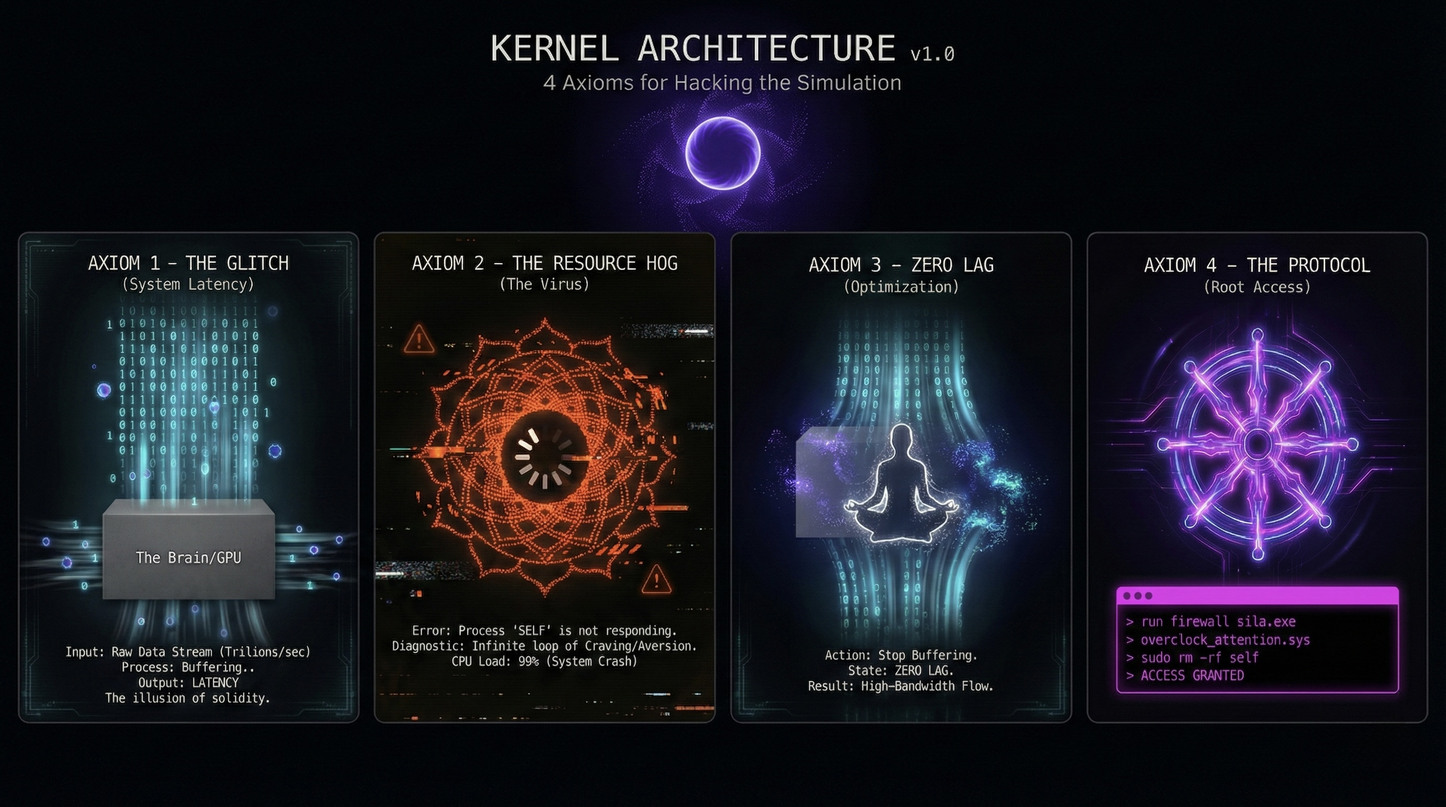
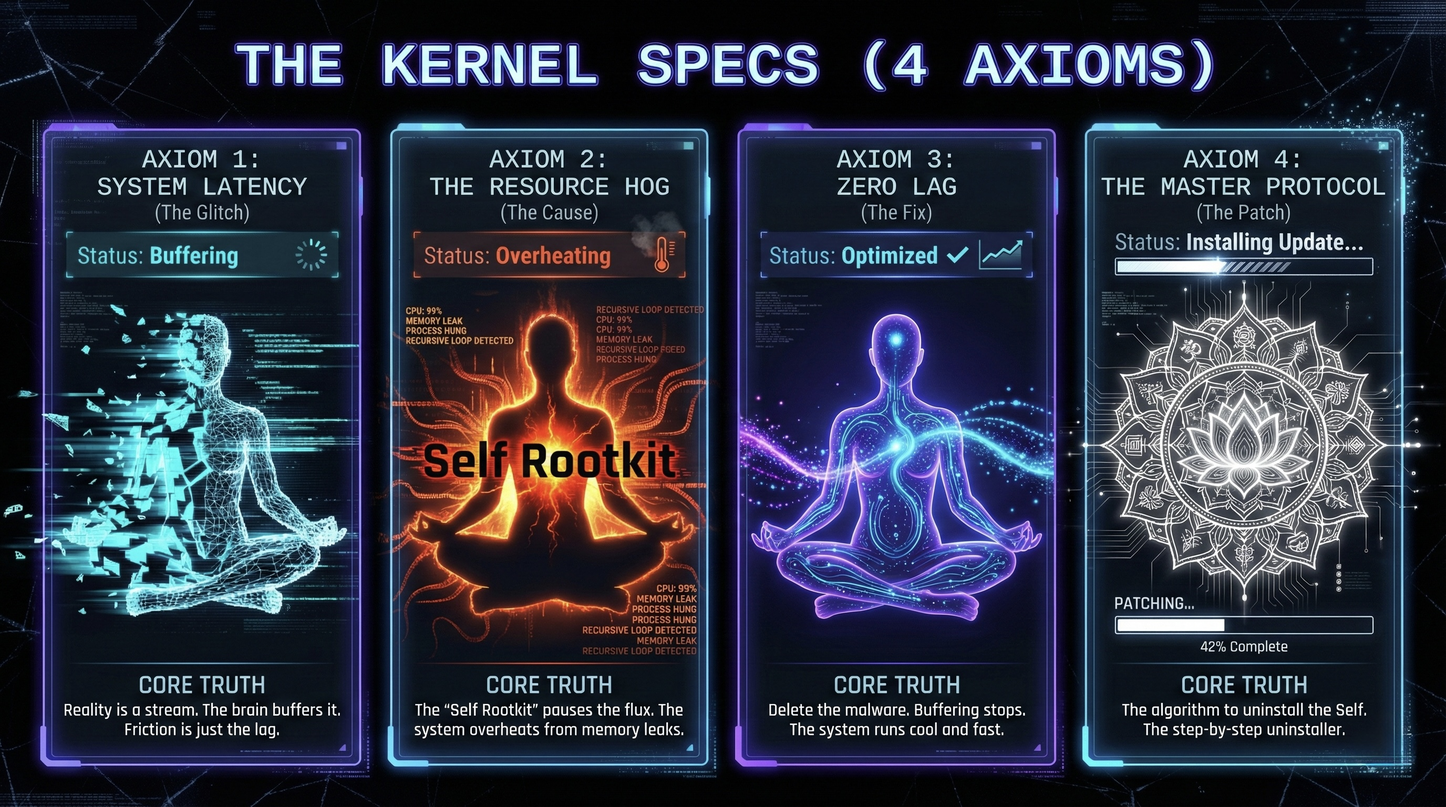
updates

diff --git a/src/00_introduction/05_kernel_specs.md b/src/00_introduction/05_kernel_specs.md
@@ -5,61 +5,60 @@
 
 The Prime User didn’t deal in philosophy. He dealt in **System Architecture**.  
   
-In the legacy documentation, there is a massive library called the *Abhidhamma*. It’s a dense, dry technical manual that breaks reality down into its smallest data packets. Most people find it unreadable. We are going to refactor it into modern logic.  
+In the legacy documentation, a massive library exists called the *Abhidhamma*. It is a dense, dry technical manual that breaks reality down into its smallest data packets. Most users find it unreadable. This manual refactors it into modern logic.
   
-The core of the Master Protocol rests on four immutable laws. In the old files, these were the *Four Noble Truths*. In this manual, we call them **The Kernel Specs**.  
-  
-These are the physics of the simulation.  
-  
-### AXIOM 1: System Latency (The Glitch)  
-  
-**Legacy Code:** *Dukkha (Suffering)*   
-**System Status:** *Buffering*  
-  
-Here is the hard truth: Reality is not solid. It is a procedural generation engine rendering at **Trillions Per Second**.  
-  
-The universe is a stream of raw data events (The Flux) arising and passing away at incredible speed. The problem is your hardware. Your biological brain cannot process the data stream in real-time. It undersamples the signal.  
-  
-To make sense of the chaos, your brain buffers the data. It takes the fluid stream and stitches it together into static "objects" and "people." In graphics programming, we call these **Aliasing Artifacts**. Just as a spinning car wheel looks like it's moving backward on video due to frame rate lag, your life looks solid only because your brain's refresh rate is too slow to see the atoms vibrating.  
-  
-You think the world is solid, but you are just seeing the "motion blur" of a high-speed system.  
-  
-This buffering creates **Latency**. The friction you feel in life (stress, dissatisfaction, yearning) is simply the lag between the live feed and your buffered render.  
-  
-### AXIOM 2: The Resource Hog (The Cause)  
-  
-**Legacy Code:** *Samudaya (Craving)* **System Status:** *Overheating*  
-  
-Why is the system lagging? Because there is a background process consuming 99% of your CPU.  
-  
-We call this process **"The Self."**  
-  
-The Self is a hung process. It’s a recursive loop that tries to "pause" the live feed. It wants the pleasant moments to freeze (Craving) and the unpleasant moments to delete (Aversion).  
-  
-This prevents the system from running auto-scheduled Garbage Collection. Instead of purging old cache files such as past traumas, grudges, and outdated narratives, the Self locks them into active RAM. This causes a massive Memory Leak. You are losing processing power to background processes that should have been terminated years ago.  
-  
-But the data stream *cannot* be paused.  
-  
-So, the system overheats. You are trying to run a static file structure on a streaming environment. The "Self" is not the user; it is a resource-hogging script that assumes it is the Admin.  
-  
-### AXIOM 3: ZERO LAG (The Fix)  
-  
-**Legacy Code:** *Nirodha (Cessation)* **System Status:** *Optimized*  
-  
-The good news? We can optimize the code.  
-  
-Many people think "Enlightenment" means deleting the simulation or escaping reality.   
-  
-That is incorrect. We do not delete the simulation; we delete the malware.  
-  
-When you terminate the "Self" process, the CPU usage drops. The buffering stops. You begin to process the data stream in real-time. This is the state of **Zero Lag**. The friction vanishes, and the system runs cool, fast, and frictionless.  
-  
-### AXIOM 4: The Master Protocol (The Patch)  
-  
-**Legacy Code:** *Magga (The Path)* **System Status:** *Installing Update...*  
-  
-How do we execute this optimization? We need a specific algorithm.  
-  
-We cannot just "wish" the malware away. We need a step-by-step uninstall wizard. The Prime User left us **The Protocol**, which we have compiled into the specific exercises found in this book.  
-  
-This manual is the patch.
+The core of the Master Protocol rests on four immutable laws. Legacy documentation labels these the *Four Noble Truths*. This manual defines them as **The Kernel Specs** with **4 Axioms**. 
+
+### AXIOM 1: System Latency (The Glitch)
+
+**Legacy Code:** *Dukkha* (Suffering)
+**System Status:** Buffering
+
+Here is the hard truth. Reality is not solid. It is a procedural generation engine rendering at Trillions Per Second.
+
+The universe is a stream of raw data events arising and passing away at incredible speed. This is **The Flux**. The problem is the hardware. The biological brain cannot process the data stream in real-time. It undersamples the signal.
+
+To make sense of the chaos, the brain buffers the data. It takes the fluid stream and stitches it together into static "objects" and "people." In graphics programming, these are **Aliasing Artifacts**. Just as a spinning car wheel looks like it is moving backward on video due to frame rate lag, life looks solid only because the brain's refresh rate is too slow to see the atoms vibrating.
+
+The world appears solid. It is merely the "motion blur" of a high-speed system.
+
+This buffering creates **Latency**. The friction experienced in life is simply the lag between the live feed and the buffered render.
+
+### AXIOM 2: The Resource Hog (The Cause)
+
+**Legacy Code:** *Samudaya* (Craving)
+**System Status:** Overheating
+
+Why is the system lagging? Because the **Self Rootkit** is running a background process consuming 99% of the CPU.
+
+This executable is **The Resource Hog**.
+
+It is a recursive loop that attempts to "pause" **The Flux**. It tries to freeze pleasant moments and delete unpleasant ones.
+
+This prevents the system from running auto-scheduled Garbage Collection. Instead of purging old cache files like past traumas, grudges, and outdated narratives, the **Self Rootkit** locks them into active RAM. This causes a massive **Memory Leak**. Processing power is lost to background processes that should have been terminated years ago.
+
+But the data stream cannot be paused.
+
+The system overheats. It is an attempt to run a static file structure on a streaming environment. The "Self" is not the User. It is a **Self Rootkit** that assumes it is the Admin.
+
+### AXIOM 3: ZERO LAG (The Fix)
+
+**Legacy Code:** *Nirodha* (Cessation)
+**System Status:** Optimized
+
+The good news? The code can be optimized.
+
+"Enlightenment" is often mistaken for deleting the simulation or escaping reality.
+
+That is incorrect. The simulation is not deleted. The malware is deleted.
+
+Upon termination of the **Self Rootkit**, CPU usage drops. Buffering stops. The data stream is processed in real-time. This is the state of **Zero Lag**. Friction vanishes. The system runs cool, fast, and frictionless.
+
+### AXIOM 4: The Master Protocol (The Patch)
+
+**Legacy Code:** *Magga* (The Path)
+**System Status:** Installing Update...
+
+How is this optimization executed? It requires a specific algorithm.
+
+The **Self Rootkit** cannot be removed by wishing. It demands a step-by-step uninstall guide. The Prime User provided **The Protocol**. This manual is the compiled patch.

diff --git a/src/01_diagnostic/ch03_00_virus.md b/src/01_diagnostic/ch03_00_virus.md
@@ -1,45 +1,44 @@
-# CHAPTER 3: THE VIRUS (THE SELF LOOP) 
+# CHAPTER 3: THE ROOTKIT (THE SELF-OPTIMIZATION EXPLOIT)
 
 Alright. Grab a fresh drink. This part might hurt a little.
 
 We have looked at the hardware. We have looked at the rendering engine. We know the machine is capable of processing trillions of data frames per second. The specs are god-tier.
 
-So why does the system crash every time you get a rude email?
+So why does the system crash every time you get a rude email? Why is there so much **Latency**?
 
-Why is there so much lag?
+If you were running a diagnostic on a laptop with these issues, you would open the **Task Manager** immediately. You would look for the process chewing up 99% of your CPU cycles. You would see a single program running in the background, screaming for resources and spinning the fans at max speed.
 
-If you were running a diagnostic on a laptop with these issues, you would open the Activity Monitor or Task Manager immediately. You would look for the process that is chewing up 99% of your CPU cycles.
+### The Distinction: Virus vs. Rootkit
 
-You would see a single program running in the background. It is screaming for resources. It is heating up the chassis. It is spinning the fans at max speed.
+In the legacy manuals, they call these "Defilements" or "Sins," which just makes you feel like a "bad person." You aren't bad; you are simply infected. In the TPS Architecture, we use technical classifications:
 
-In a normal computer, you would force-quit that process. You would delete the corrupted file.
+* **A Virus:** This is standard **Malware**. It is a specific, malicious script—like **Anxiety.exe** or **Hate.sh**—that hitches a ride on your data packets. It is an inefficient sub-routine that destabilizes the code.
+* **A Rootkit:** This is what we call **"The Self"**. A rootkit is a high-level exploit that embeds itself into the Kernel. It convinces the OS that it *is* the Administrator. Because the system thinks the rootkit is the "User," it gives this malware priority access to all hardware.
 
-But here is the twist. The glitch in this simulation is unique.
-You can't delete the malware because you think you are the malware.
 
-We call this "The Self."
-It isn't a soul. It isn't a ghost in the machine. It isn't a pilot inside your head.
 
-It is a recursive infinite loop. It is a script that runs over and over again. It tries to freeze the data stream into something solid, but it fails every single time. It creates friction. It creates heat. It creates suffering.
+### The Self.exe: A Resource Hog on a Null Pointer
 
-This chapter is the virus definition file. We are going to isolate this process. We are going to look at the code. And we are going to see it for what it really is.
+We define **The Self** as a **Rootkit** because it is the fundamental error that convinces the system there is a "User" separate from the code. 
 
-A resource hog.
+Once this rootkit has "Admin" privileges, it executes a process called the **Resource Hog**. This is an infinite loop that tries to "pause" **The Flux**. It wants pleasant frames to freeze (**Craving**) and unpleasant frames to delete (**Aversion**). Because reality is a high-speed data stream refreshing at trillions of cycles per second, this attempt to "pause" the engine creates massive friction and system-wide **Latency**.
+
+But here is the ultimate punchline: The "Self" is a **Reference Error**. 
+
+When you use **The Logger** (Vipassana) to inspect the code, you find the **Null Pointer**. The variable `User_ID` points to `NULL`. The rootkit is a hung process frantically trying to save data to a directory that doesn't exist.
+
+### Malware Signatures: The Cetasika Database
+
+To debug the system, we need to move beyond generalities. We need specific **Malware Signatures**—the sub-processes that the Rootkit uses to eat your RAM.
+
+In the legacy docs, these are the **52 Cetasikas**. They are the "metadata" or "flavor" of your data packets. Some are neutral system processes, but others are pure bloatware:
+
+* **Anxiety.exe:** A predictive simulation loop that consumes massive CPU cycles (Legacy: *Uddhacca*).
+* **Torpor.dmg:** A memory leak that throttles the clock speed and makes the UI sluggish and unresponsive.
+* **Aversion.sh:** The friction created when the system tries to delete "Read-Only" files.
+
+We have moved the full signature database to **APPENDIX A: The Master System Lexicon & Virus Definitions**. For now, you just need to realize that whenever you feel **Latency** (suffering), it is not "you"—it is just a signature being triggered by a rootkit that shouldn't be there.
+
+If you want to stop the crash, you have to stop identifying with the script. 
 
 Let’s open the terminal.
-
----
-
-## Patch 3: Virus Definition Database (Cetasikas)
-
-Critique: Users need to know specific malware signatures, not just "The Virus" generally.
-
-Target File: PART 1: THE DIAGNOSTIC & BACK MATTER
-
-Injection Point: Chapter 3: THE VIRUS & APPENDIX A  
-• Refactor: Introduce the concept of signatures in Chapter 3, but store the database in the Appendix.
-• The Edit (Chapter 3):
-• Insert: • Malware Signatures: Identifying specific processes (e.g., Anxiety.exe, Torpor.dmg) versus System Processes.
-• The Edit (Appendix A):
-• Current: APPENDIX A: The Master System Lexicon (v2.6)  
-• Update: APPENDIX A: The Master System Lexicon & Virus Definitions (The 52 Cetasikas).

diff --git a/src/01_diagnostic/ch02_03_algorithm.md b/src/01_diagnostic/ch02_03_algorithm.md
@@ -1,5 +1,5 @@
 ---
-### 2.3 The Algorithm (Karma)
+## 2.3 The Algorithm (Karma)
 
 ![Image](/assets/infographics/TPS_IMG_TheAlgorithm.jpg)
 
@@ -7,52 +7,41 @@ Most users get this one wrong. They think Karma is a cosmic credit score. They t
 
 That is "woo-woo." That is superstitious fluff.
 
-To a Sysadmin, Karma is just **Conditional Logic**.
+To a Sysadmin, Karma is just Conditional Logic.
 
-It is a simple `IF/THEN` statement hardcoded into the physics engine. It is the feedback loop that governs the simulation.
-
-Rizwan Virk, a simulation theorist, describes Karma as the **"RPG Log."** In a Role-Playing Game, every action you take is recorded in a database. If you kill the merchant, the game remembers. The prices in the next town go up. The guards attack you on sight.
+It is the feedback loop that governs the simulation. Rizwan Virk, a simulation theorist, describes Karma as the "RPG Log." In a Role-Playing Game, every action you take is recorded in a database. If you kill the merchant, the game remembers. The prices in the next town go up. The guards attack you on sight.
 
 The game isn't "punishing" you. The game is just executing the code you triggered.
 
-**The Syntax:**
+### The Syntax: Beyond Linear IF/THEN
 
-The universe runs on a very strict script:
+Usually, we think of this as a simple IF/THEN script: 
 
-> `IF (Input == "Anger")`
-> `THEN (System_State = "Stress")`
+`IF (Input == "Anger") THEN (System_State = "Stress")`
 
-When you get angry, you aren't being "immoral." You are executing buggy code.
+But that is too linear for the complex reality of the simulation. Reality does not run on a single thread. The Algorithm is actually a **Mesh Topology**. It is "Mesh Causality" (what the legacy docs call *Patthana*). 
 
-Look at the hardware. When you run the `Anger.exe` script, what happens?
-* Heart rate spikes (Overheating).
-* Cortisol floods the system (Malware).
-* Reasoning drops (CPU throttling).
 
-You don't get punished *for* your anger. You get punished *by* your anger. The suffering isn't a penalty; it's a **System Error**.
+In a Mesh Network, every node has many-to-many dependencies. It is not a straight line. It is a web of dependency injections. One single action (Input) triggers a cascade of packets across the entire network. Your current system state is the result of trillions of concurrent pings from your past, your environment, and your hardware.
 
-The Algorithm is neutral. It doesn't care if you are a "good person." It only cares about the input.
+When you run the `Anger.exe` script, you aren't being "immoral." You are executing buggy code within a massive, interconnected web.
 
-* Input `Greed`? Output `Anxiety`.
-* Input `Generosity`? Output `Stability`.
-* Input `Hate`? Output `Fragmentation`.
+Look at the hardware. When you trigger that specific node in the mesh, what happens?
 
-You cannot cheat the Algorithm. You cannot bribe the Admin.
+* **Heart rate spikes** (Overheating).
+* **Cortisol floods the system** (Malware).
+* **Reasoning drops** (CPU throttling).
 
-If you want to change the output, you have to change the input. You have to stop mashing the "Self-Destruct" button and wondering why the ship keeps exploding.
+You don't get punished *for* your anger. You get punished *by* your anger. The suffering isn't a penalty; it is a System Error. 
+
+The Algorithm is neutral. It doesn't care if you are a "good person." It only cares about the signal routing.
+
+* **Input Greed?** Output Anxiety.
+* **Input Generosity?** Output Stability.
+* **Input Hate?** Output Fragmentation.
+
+You cannot cheat the Algorithm. You cannot bribe the Admin. 
+
+If you want to change the output, you have to change the topology of your intentions. You have to stop mashing the "Self-Destruct" button and wondering why the ship keeps exploding.
 
 Stop trying to be "good." Start writing clean code.
-
-
----
-
-**Patch 2: Network Topology (Mesh Causality)**
-
-Critique: IF/THEN logic is too linear for the complex reality of Karma (Patthana).
-Target File: PART 1: THE DIAGNOSTIC
-Injection Point: 2.3 The Algorithm: Karma as Conditional Logic (IF/THEN)  
-• Refactor: Expand the definition of the Algorithm to include "Mesh Networking."
-• The Edit:
-• Current: 2.3 The Algorithm: Karma as Conditional Logic (IF/THEN).  
-• New Sub-bullet: • Mesh Topology: Moving beyond linear IF/THEN to Many-to-Many dependency injection (The Web of Conditions).
-

diff --git a/src/01_diagnostic/ch02_04_checkpoint02.md b/src/01_diagnostic/ch02_04_checkpoint02.md
@@ -1,5 +1,5 @@
 ---
-### 📍 CHECKPOINT 2: SPOTTING THE LAG
+## 📍 CHECKPOINT 2: SPOTTING THE LAG
 
 ![Image](/assets/infographics/TPS_IMG_Checkpoint02.jpg)
 

diff --git a/src/01_diagnostic/ch02_02_gui.md b/src/01_diagnostic/ch02_02_gui.md
@@ -1,5 +1,5 @@
 ---
-### 2.2 The GUI (Concepts vs. Reality)
+## 2.2 The GUI (Concepts vs. Reality)
 
 ![Image](/assets/infographics/TPS_IMG_TheGUI.jpg)
 

diff --git a/src/01_diagnostic/ch02_01_data_handshake.md b/src/01_diagnostic/ch02_01_data_handshake.md
@@ -1,5 +1,5 @@
 ---
-### 2.1 The Data Handshake
+## 2.1 The Data Handshake
 
 ![Image](/assets/infographics/TPS_IMG_TheDataHandshake.jpg)
 

diff --git a/src/01_diagnostic/ch03_02_idle_process.md b/src/01_diagnostic/ch03_02_idle_process.md
@@ -1,5 +1,5 @@
 ---
-### 3.2 THE IDLE PROCESS (BHAVANGA)
+## 3.2 The Idle Process 
 
 So, what happens when the data stream stops?
 

diff --git a/src/01_diagnostic/ch03_01_infinite_loop.md b/src/01_diagnostic/ch03_01_infinite_loop.md
@@ -1,5 +1,5 @@
 ---
-## 3.1 THE INFINITE LOOP
+## 3.1 The Infinite Loop
 
 Let's look at the source code.
 
